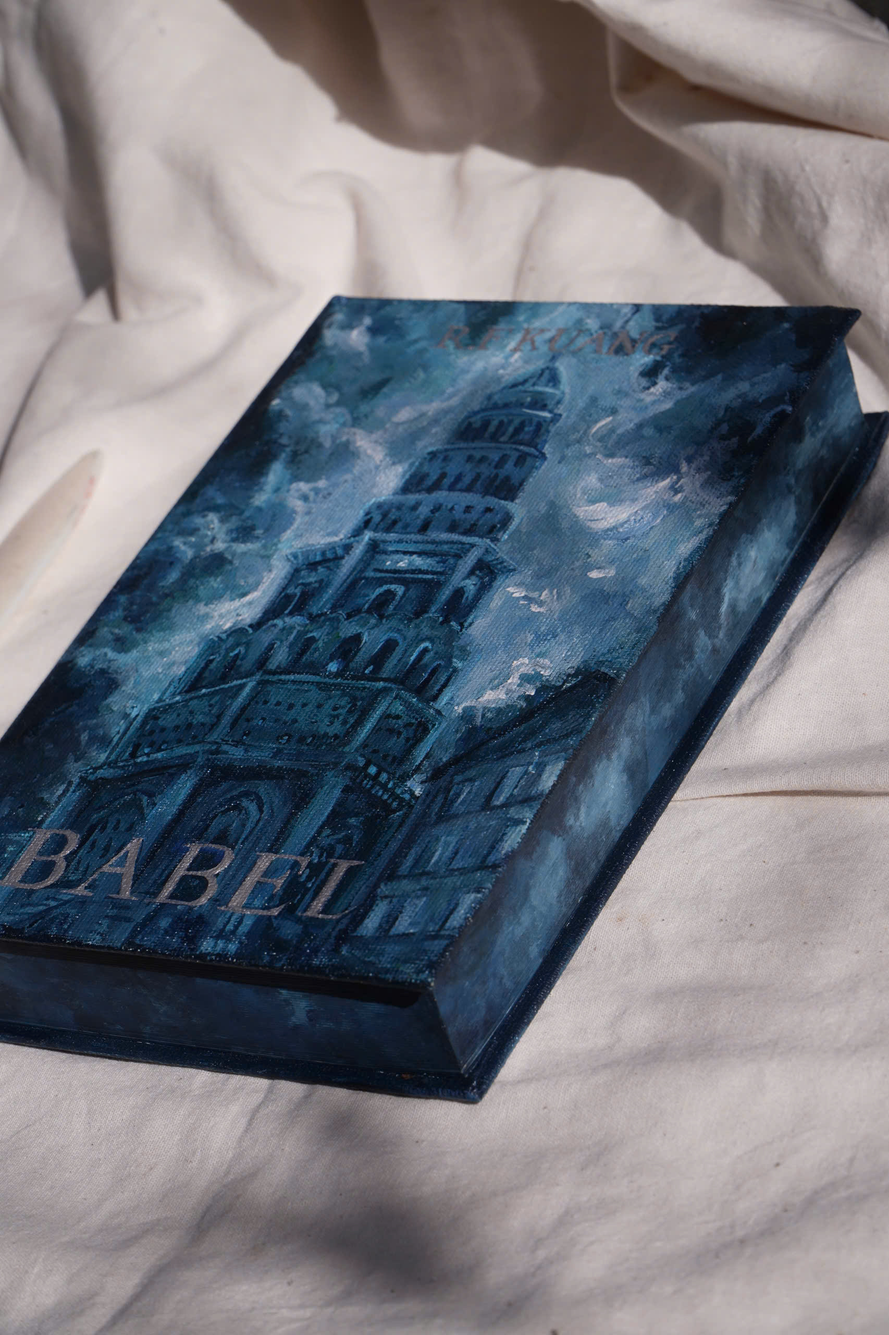
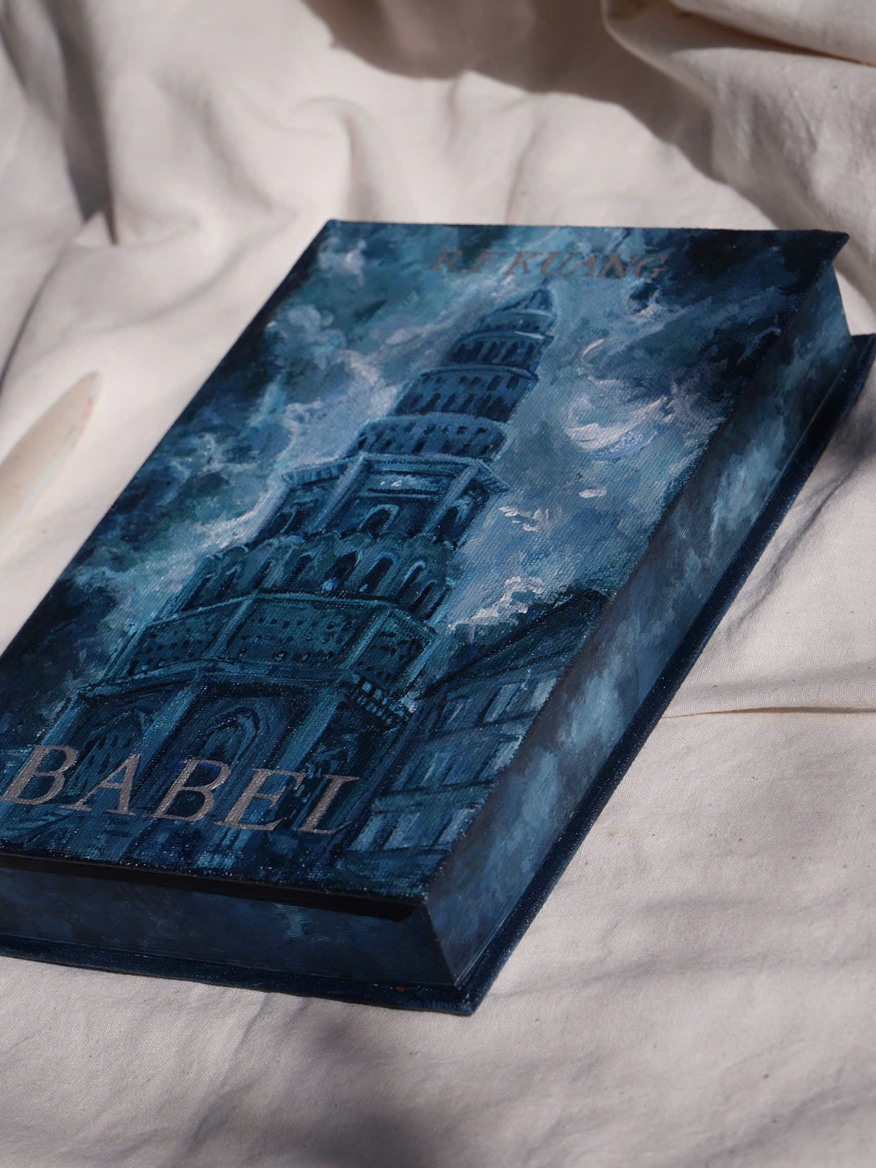
feat: crop img

diff --git a/.agents/skills/book-image-crop-safe/SKILL.md b/.agents/skills/book-image-crop-safe/SKILL.md
@@ -1,6 +1,6 @@
 ---
 name: book-image-crop-safe
-description: Clone ảnh gốc với prefix bookId rồi crop toàn bộ thumbnail và gellery_imgs đang được website dùng trong một lượt. Dùng khi cần chuẩn hóa tỷ lệ ảnh cho từng bookId trong biacung.com mà vẫn giữ bản gốc ngay cạnh ảnh hiện tại.
+description: Clone ảnh gốc với prefix bookId, crop có chủ đích và tối ưu nhẹ dung lượng cho toàn bộ thumbnail và gellery_imgs đang được website dùng trong một lượt. Dùng khi cần chuẩn hóa ảnh cho từng bookId trong biacung.com mà vẫn giữ bản gốc ngay cạnh ảnh hiện tại.
 ---
 
 # Book Image Crop Safe
@@ -49,24 +49,48 @@ Các quy tắc:
 - Nếu ảnh đã là `3:4`, không crop chỉ để thay đổi kích thước.
 - Không ép ảnh ngang hoặc bố cục sẽ mất chủ thể về `3:4`; đề xuất ngoại lệ riêng.
 - Xử lý orientation khi tạo bản crop, nhưng file clone có prefix phải giữ nguyên dữ liệu gốc.
-- Chọn focal point riêng cho từng ảnh; không mặc định crop giữa hàng loạt.
+- Chọn focal point và vùng crop riêng cho từng ảnh; không mặc định crop giữa hàng loạt.
+
+#### Chọn vùng crop theo nội dung
+
+Việc đạt đúng tỷ lệ chưa đủ. Trước khi crop từng ảnh, phải xem ảnh gốc và xác định phần nào là chủ thể, phần nào là nền có thể bỏ:
+
+1. Ưu tiên giữ trọn hình dáng cuốn sách và các cạnh quan trọng đang xuất hiện trong khung hình: bìa, gáy, fore-edge, đầu/đuôi sách, bookmark hoặc phụ kiện gắn với sách.
+2. Không cắt mất hoặc đặt sát mép các nội dung nhận diện quan trọng như tên sách, tên tác giả, logo, minh họa chính, khuôn mặt/nhân vật, hoa văn đặc trưng và chữ trên bìa hay gáy.
+3. Dịch khung crop về phía chủ thể để loại trước các vùng thừa như nền trống, mép bàn, vải, bóng tối, chai/lọ trang trí hoặc khoảng không không phục vụ việc giới thiệu sách.
+4. Khi không thể giữ mọi thứ, ưu tiên nội dung của cuốn sách hơn đạo cụ và nền. Không hy sinh chi tiết bìa quan trọng chỉ để khung crop cân giữa về hình học.
+5. Tạo và xem trực tiếp phương án crop. Nếu đường biên sách hoặc nội dung quan trọng bị cụt, quá sát mép hay mất cân đối, điều chỉnh offset và xem lại trước khi thay file website.
+
+Vùng crop tốt là vùng đạt tỷ lệ chung, loại được phần thừa nhiều nhất nhưng vẫn giữ chủ thể tự nhiên và đủ khoảng thở. Crop giữa chỉ được dùng khi nó thực sự là framing tốt nhất cho ảnh đó.
 
 Thực hiện lần lượt cho mọi ảnh mục tiêu, không dừng sau từng file:
 
 1. Dùng bản clone `<bookId>_<basename>` làm nguồn để bản crop luôn xuất phát từ ảnh gốc.
-2. Chọn focal point riêng, tạo kết quả crop vào file tạm và xem trực tiếp.
-3. Nếu kết quả đúng orientation, kích thước và không mất chi tiết quan trọng, thay ngay file basename cũ mà website đang dùng.
+2. Chọn focal point và offset riêng theo các tiêu chí nội dung ở trên, tạo kết quả crop vào file tạm và xem trực tiếp.
+3. Nếu kết quả đúng orientation, kích thước, còn khoảng thở hợp lý và không mất chi tiết quan trọng, chuyển sang bước tối ưu dung lượng.
 4. Nếu một ảnh thật sự không thể crop về tỷ lệ chung mà không phá bố cục, giữ nguyên riêng ảnh đó, tiếp tục các ảnh còn lại và báo rõ ngoại lệ ở cuối; không hỏi confirm cho các ảnh bình thường.
 5. Giữ nguyên URL trong JSON. Chỉ cập nhật JSON nếu người dùng yêu cầu đổi basename.
-6. Sau khi xử lý hết, xem lại toàn bộ ảnh và kiểm tra trang `detail-focus-cover` nếu có thể.
+6. Sau khi xử lý và tối ưu hết, xem lại toàn bộ ảnh và kiểm tra trang `detail-focus-cover` nếu có thể.
+
+### 4. Tối ưu nhẹ cho web
+
+Chỉ tối ưu file website sau khi framing đã được duyệt. Bản clone có prefix luôn giữ nguyên byte gốc.
+
+- Không upscale. Nếu ảnh crop lớn hơn `1680 × 2240`, mặc định giảm về tối đa `1680 × 2240`; giữ đúng tỷ lệ và không phóng ảnh nhỏ lên.
+- Ảnh đã đúng `3:4` không cần crop, nhưng có thể downscale nhẹ nếu lớn hơn kích thước ưu tiên cho web.
+- Giữ nguyên codec và phần mở rộng khi có thể để URL không đổi. Với JPEG, bắt đầu ở quality khoảng `85` và chỉ điều chỉnh trong khoảng `82–88` theo độ phức tạp của ảnh. Với định dạng lossless, dùng tối ưu lossless; không tự đổi định dạng.
+- Không chạy nén nối tiếp trên file đã crop/nén. Mỗi lần tạo kết quả phải xuất phát từ bản clone nguyên gốc để tránh suy hao tích lũy.
+- So sánh dung lượng trước/sau. Mục tiêu là giảm vừa phải và thực chất; không giảm quality thêm nếu tiết kiệm không đáng kể.
+- Xem ảnh tối ưu ở kích thước đầy đủ và kích thước hiển thị dự kiến. Không chấp nhận chữ bị nhòe, chi tiết nét vẽ/bề mặt bìa bị bệt, banding, ringing, block JPEG hoặc màu lệch thấy rõ.
+- Chỉ thay file basename cũ sau khi cả framing lẫn chất lượng nén đều đạt. Nếu tối ưu làm chất lượng giảm rõ rệt hoặc file không nhẹ hơn, giữ bản crop chất lượng cao hơn và báo lại.
 
 ## Hoàn tất
 
 Xác nhận:
 
 - Mỗi ảnh mục tiêu có đúng một bản clone `<bookId>_<basename>` chưa bị crop.
-- Các file basename cũ là ảnh crop đã được duyệt.
+- Các file basename cũ là ảnh crop có framing đã được duyệt và đã tối ưu nhẹ nếu phù hợp.
 - JSON parse thành công và mọi URL vẫn tồn tại.
 - Không có file ngoài book hiện tại bị thay đổi.
 
-Báo cáo ngắn gọn các file clone, crop thực tế của từng ảnh, file đã thay và kết quả kiểm tra. Không tự chuyển sang `bookId` tiếp theo.
+Báo cáo ngắn gọn các file clone, vùng crop thực tế của từng ảnh, kích thước và dung lượng trước/sau, thiết lập tối ưu chính, file đã thay và kết quả kiểm tra. Nêu rõ mọi ảnh giữ nguyên hoặc ngoại lệ. Không tự chuyển sang `bookId` tiếp theo.
